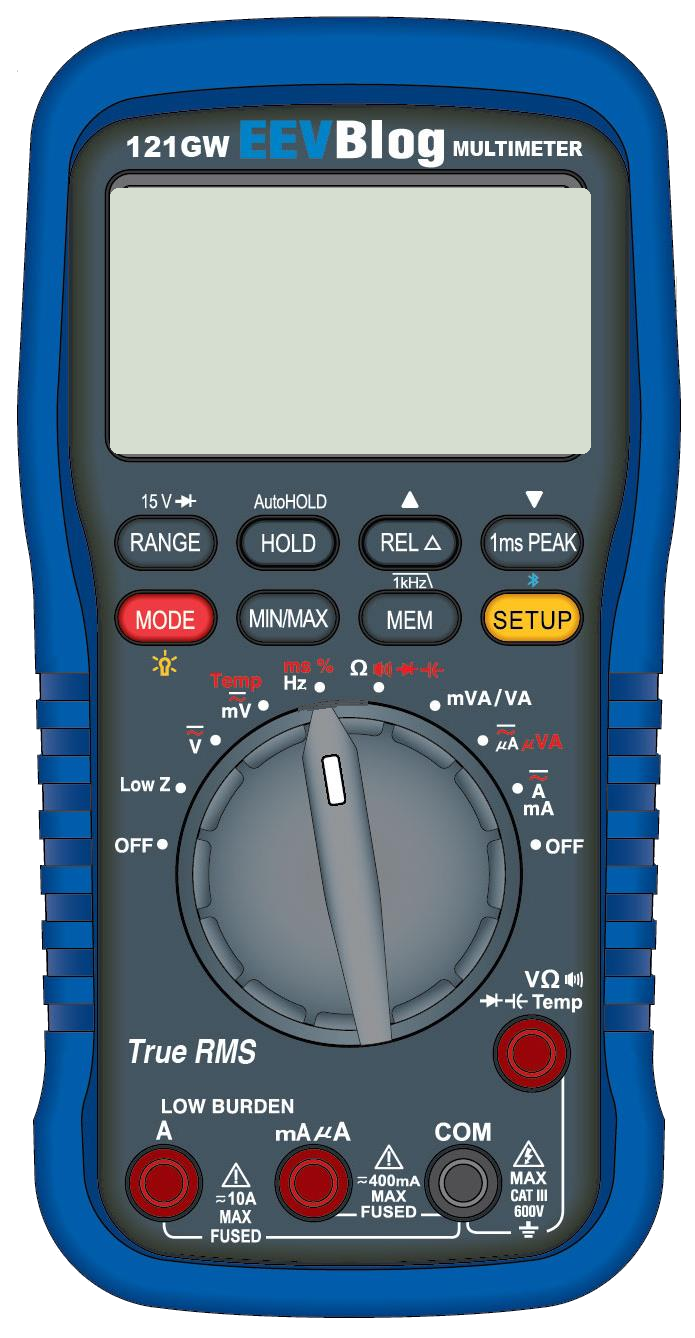
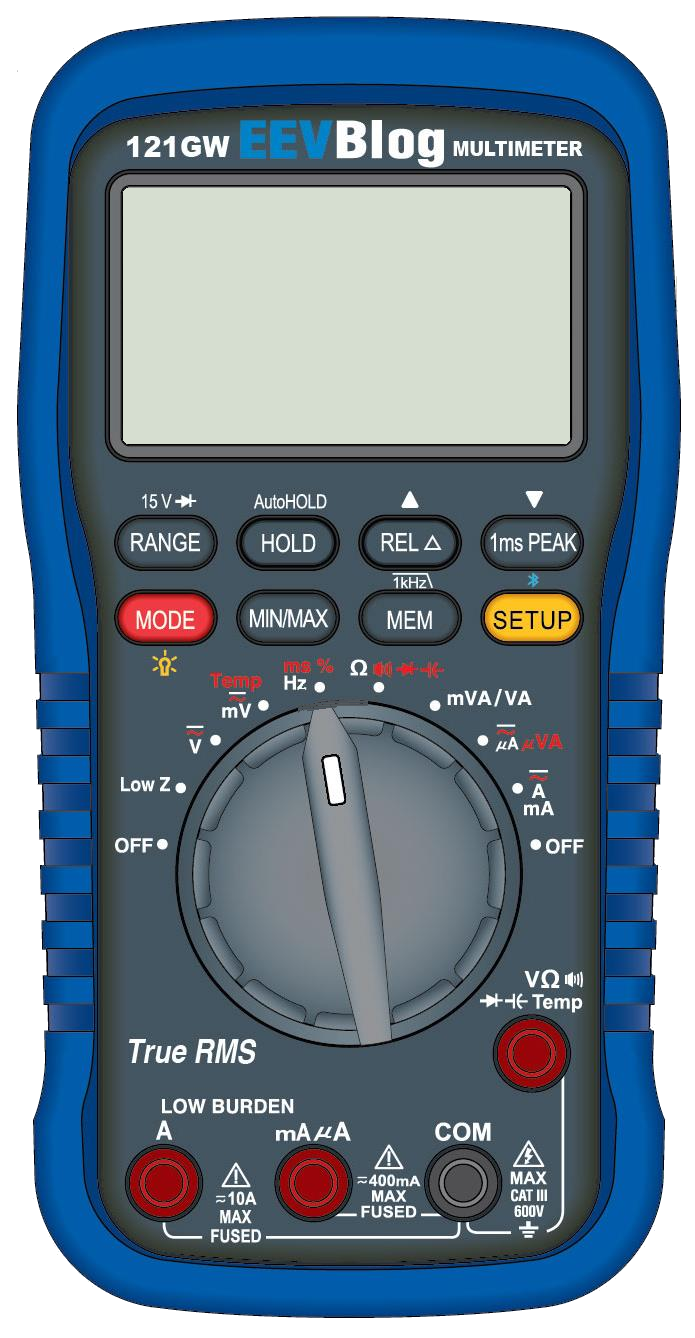
UI: LCD glass measured from the drawing's window edges; artwork fitted to the printed segment extent

Changed region(s): [[0.1511, 0.1226, 0.8763, 0.3371]]

diff --git a/emulator/ui/index.html b/emulator/ui/index.html
@@ -8,10 +8,10 @@
   /* Front panel: the meter drawing (695 x 1338 px) with live elements placed in its pixel coordinates. */
   #panel { position:relative; height:min(calc(100vh - 32px), calc((100vw - 470px) * 1338 / 695)); width:auto; aspect-ratio:695/1338; flex:none; background:url(/assets/panel.png) center/100% 100% no-repeat; }
   .abs { position:absolute; }
-  #lcd { background:#b3bdab; border-radius:1.66% / 3.01%; overflow:hidden; box-shadow:inset 0 2px 6px #0006; transition:background .2s; }
+  #lcd { background:#b3bdab; border-radius:1.12% / 1.95%; overflow:hidden; box-shadow:inset 0 2px 6px #0006; transition:background .2s; }
   #lcd.backlight { background:#c9e8c1; box-shadow:inset 0 0 30px #a6ff9c; }
   #lcd.off { background:#9aa394; }
-  #glass { position:absolute; left:3.5%; right:3.5%; top:4.5%; bottom:4.5%; }
+  #glass { position:absolute; left:1.12%; right:1.34%; top:1.95%; bottom:2.34%; }  /* = printed segment extent x 128..563, y 193..437 */
   #lcd img { position:absolute; inset:0; width:100%; height:100%; opacity:0; filter:brightness(0.05); }
   #lcd.ghost img { opacity:.06; }
   #lcd img.on { opacity:.92 !important; }
@@ -75,8 +75,8 @@ function place(el, x0, y0, x1, y1) {
   el.style.width = ((x1 - x0) / PW * 100) + '%'; el.style.height = ((y1 - y0) / PH * 100) + '%';
 }
 const post = c => fetch('/input', {method:'POST', body:JSON.stringify(c)});
-// LCD window: the opening blanked by tools/make_panel.py (glass x 110..590, y 188..453 inclusive; radius 8) and glass layers (MIT, official 121GW app)
-const lcd = document.getElementById('lcd'), glass = document.getElementById('glass'); place(lcd, 110, 188, 591, 454);
+// LCD glass as blanked by tools/make_panel.py (x 123..569, y 188..443 inclusive; radius 5) and glass layers (MIT, official 121GW app)
+const lcd = document.getElementById('lcd'), glass = document.getElementById('glass'); place(lcd, 123, 188, 570, 444);
 let bits = {}; const imgs = {};
 const unproven = ['TEST','BarTick0_0','DC+AC','Segs_unA','SubAC','SubDC','SubS','Subn'];
 function addImg(n, unp) {

diff --git a/emulator/tools/make_panel.py b/emulator/tools/make_panel.py
@@ -12,9 +12,9 @@ px = im.load()
 FACE = (68, 86, 98)                       # panel face colour (sampled)
 KNOB_C, KNOB_R = (347.0, 873.6), 167      # knob centre / radius (circle fit to the printed outline)
 HZ_DOT = (320, 688)                       # dial dot nearest to the printed pointer tip
-LCD = (110, 188, 590, 453)                # live LCD window
+LCD = (123, 188, 569, 443)                # LCD glass, inclusive (inside the black edge; walls and frame stay printed)
 d = ImageDraw.Draw(im)
-d.rounded_rectangle(LCD, radius=8, fill=(214, 222, 208))
+d.rounded_rectangle(LCD, radius=5, fill=(214, 222, 208))
 # printed pointer tip outside the knob: repaint only pointer pixels (neutral grey body or dark outline,
 # never the white label text or the dot) with the nearest face-coloured pixel of the same row
 def is_face(c):
